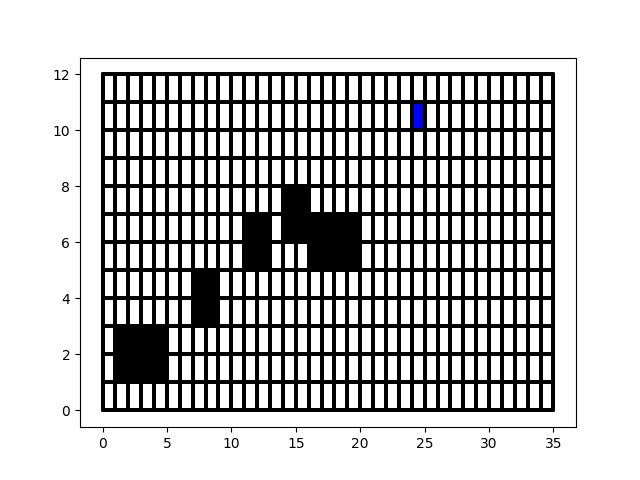
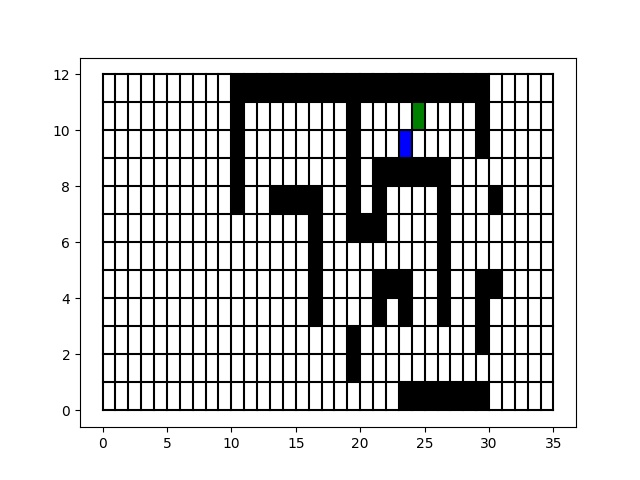
live-mapping changes

Changed region(s): [[0.1562, 0.1562, 0.875, 0.875]]

diff --git a/scripts/Astar.py b/scripts/Astar.py
@@ -27,7 +27,7 @@ class Planner():
         self.openset=[]
         self.closedset=[]
         self.tracerset=[]
-        self.start_coord=[0,0]
+        self.start_coord=[2,2]
         print("STARTCOORD:{}".format(self.start_coord))
         self.end_coord=[24,10]
         hdist=astar.h_value([self.start_coord[0],self.start_coord[1]],[self.end_coord[0],self.end_coord[1]])
@@ -81,6 +81,7 @@ class Planner():
                     if(flag==True):
                         break
                 astar.save_plot()
+                print("plot saved")
                 break
 
             neighbour_list=astar.get_neighbor_list(curr_coord_id[0],curr_coord_id[1])
@@ -155,10 +156,11 @@ class Planner():
         # for i in range(0,35):
         #     for j in range(0,12):
         #         astar.draw_node(i,j,color='w')
-        # astar.draw_grid()
-        # astar.active_make_obstacles()
-        # astar.draw_obstacles()
-        # astar.grid_id_generator()
+        astar.clear_plot()
+        astar.draw_grid()
+        astar.active_make_obstacles()
+        astar.draw_obstacles()
+        astar.grid_id_generator()
 
         ##########################################################################################################
         self.path_points=[]

diff --git a/scripts/draw_graph.py b/scripts/draw_graph.py
@@ -60,8 +60,8 @@ def active_make_obstacles():
 def draw_obstacles():
 
     #############Comment out make_obstacles1() and uncomment active_make_obstacles() for live obstacle mapping########
-    make_obstacles1()
-    # active_make_obstacles()
+    # make_obstacles1()
+    active_make_obstacles()
     ##################################################################################################################
     for x in range(no_of_cols):
         for y in range(no_of_rows):

diff --git a/scripts/brain.py b/scripts/brain.py
@@ -16,8 +16,8 @@ class MasterNode():
         self.test_var=0
         self.path_points_list=[]
         self.curr_index=0
-        self.curr_x=0
-        self.curr_y=0
+        self.curr_x=2
+        self.curr_y=2
 
         self.end_x=24
         self.end_y=10

diff --git a/README.md b/README.md
@@ -18,10 +18,20 @@ https://user-images.githubusercontent.com/79915569/184886612-29ac9e93-3fb2-459d-
 
 
 # Running the code
-__The code is currently set to pre-mapped obstacles (A maze) and live obstacles mapping have been turned off__
+__The code is currently set to pre-mapped obstacles (A maze) and live obstacles mapping have been turned off__<br/>
+Clone the repository into your ```catkin_workspace``` and do ```catkin_make```
 
 # Hackathon submission
-1. Run the command ```roslaunch erc_hackathon_22 automation_task.launch```
-2. In another terminal run ```roslaunch erc_hackathon_22 automation_task_scripts.launch```
+1. ```roscore```
+2. ```export TURTLEBOT3_MODEL=waffle```
+3. Run the command ```roslaunch erc_hackathon_22 automation_task.launch```
+4. In another terminal run ```roslaunch erc_hackathon_22 automation_task_scripts.launch```
 
 # How to run real-time obstacle and planning
+1. ```roscore```
+2. ```export TURTLEBOT3_MODEL=waffle```
+3. Cd into workspace by ```roscd erc_hackathon_22/scripts```
+4. Run the command ```roslaunch erc_hackathon_22 automation_task.launch```
+5. In another terminal run ```roslaunch erc_hackathon_22 automation_task_live_map_scripts.launch```
+6. Open a new terminal and run ```rosrun erc_hackathon_22 Astar.py```
+7. Open a new terminal and run ```python live_map.py``` to see the live obstacle plot and path plan.
